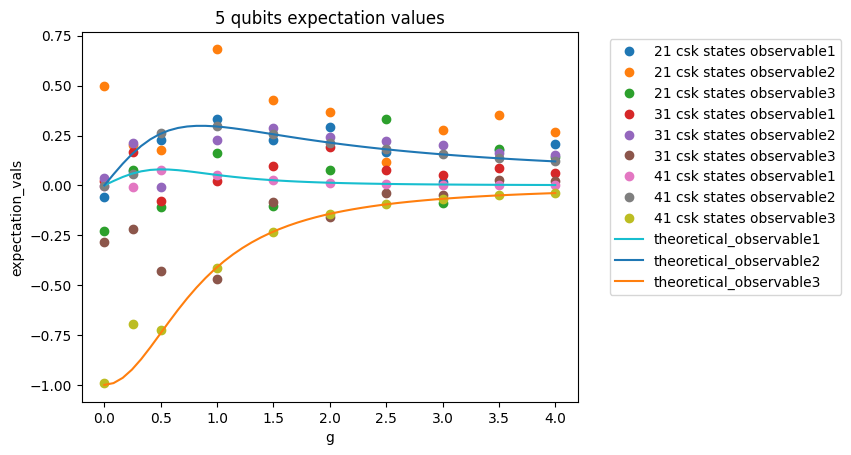
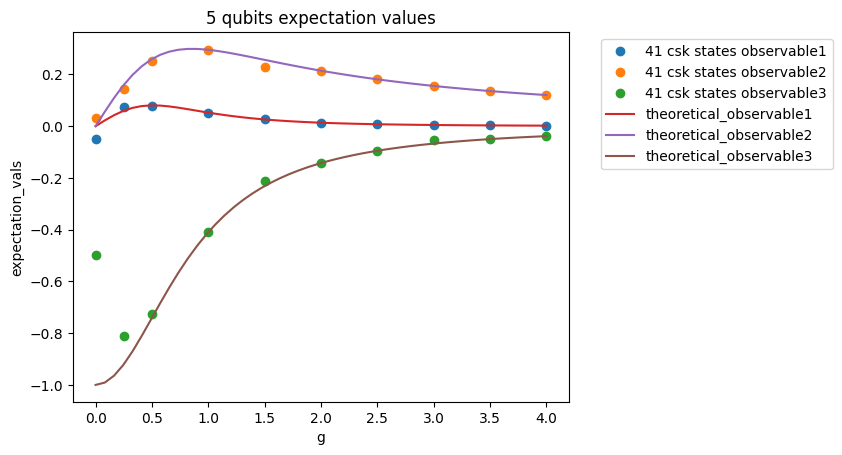
Jon

diff --git a/reproduce_fujiBoiGraphs.py b/reproduce_fujiBoiGraphs.py
@@ -18,7 +18,7 @@ loadmatlabmatrix = False
 runSDPonpython = True
 
 num_qubits = 5
-uptowhatK = 4
+uptowhatK = 5
 sdp_tolerance_bound = 0
 
 #Generate initial state
@@ -300,7 +300,7 @@ else:
 
     # observable_expectation_results, theoretical_expectation_values, fidelity_results = big_ass_loop(g, observables_list)
 
-    g_vals = [0, 0.25, 0.5, 1.0, 1.5, 2.0, 2.5, 3.0, 3.5, 4.0]
+    g_vals = [0,0.25, 0.5, 1.0, 1.5, 2.0, 2.5, 3.0, 3.5, 4.0]
     results = {g:big_ass_loop(g, observables_list) for g in g_vals}
     theoretical_curves = plot_theoretical_expectation_curves(min(g_vals), max(g_vals), observables_list)
 
@@ -379,7 +379,7 @@ def plot_expectation_values(results, theoretical_curves, which_ks,savefile):
     #plt.show()
     
 plot_fidelities(results,'graphsforpaper/%s_qubit_fidelity.png'%num_qubits)
-plot_expectation_values(results, theoretical_curves, [2,3,4],'graphsforpaper/%s_qubit.png'%num_qubits)
+plot_expectation_values(results, theoretical_curves, [4,5],'graphsforpaper/%s_qubit.png'%num_qubits)
 # plot_expectation_values(results, theoretical_curves, [2])
 # plot_expectation_values(results, theoretical_curves, [3])
 # %%
